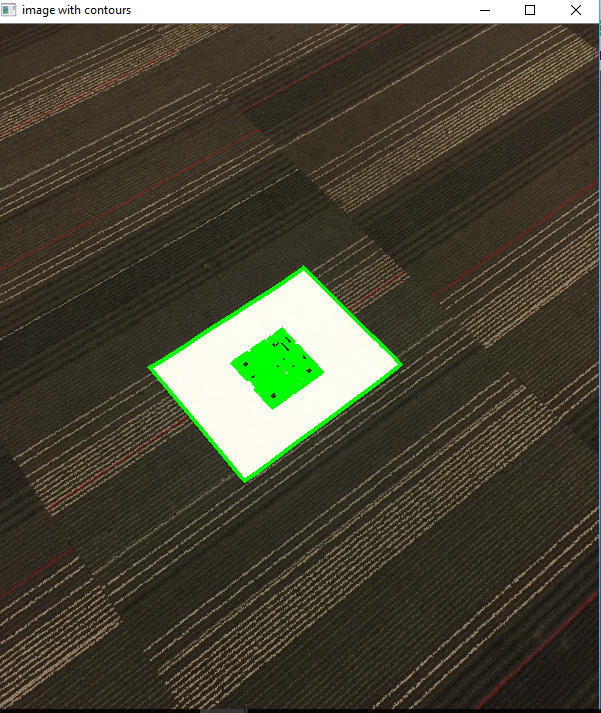
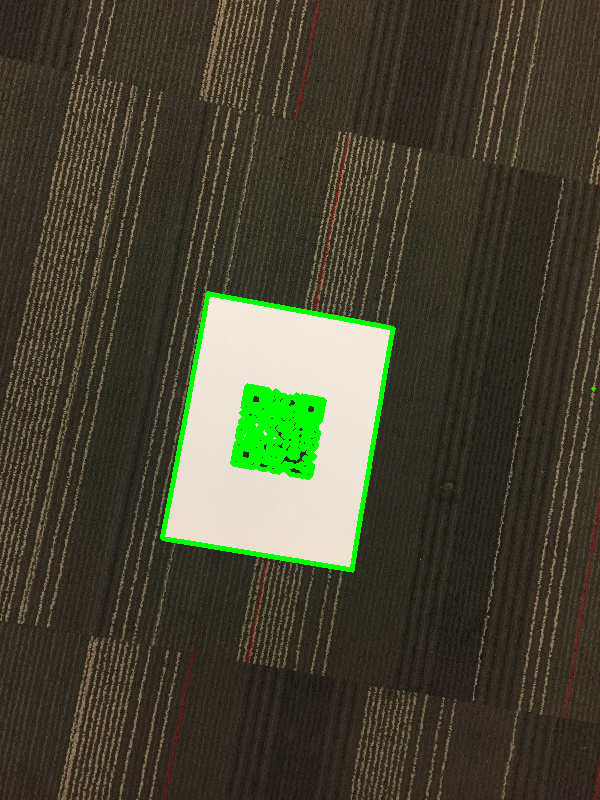
Code to compute the rotation angle of the pattern in the rotated image

diff --git a/visualize.py b/visualize.py
@@ -1,7 +1,8 @@
 import cv2
+import numpy as np
 
 # STEP-1: Read any of the input images using cv2
-img = cv2.imread('images/IMG_6723.jpg')
+img = cv2.imread('images/IMG_6726.jpg')
 
 # Step-2: We scale the image to 600*800 size. We finalize on the specifications by trial methods.
 img = cv2.resize(img, (600, 800))
@@ -25,4 +26,64 @@ contourimage, contours, hierarchy = cv2.findContours(thresholdedimage, cv2.RETR_
 # Verify if we get the contour image as expected
 cv2.drawContours(img, contours, -1, (0, 255, 0), 3)
 cv2.imshow("image with contours", img)
+cv2.imwrite("intermediateoutput/Contoured-image.PNG", img);
 cv2.waitKey()
+
+# ==============================Step-6: Detecting and analysing only the barcode pattern from the entire white paper. ============#
+
+# Let's compute the area for each contour co-ordinates.
+areas = [cv2.contourArea(contour) for contour in contours]
+print (areas)
+# #Index of the contour with max area.
+max_area_index = np.argmax(areas)
+print ("max_area_index", max_area_index)
+
+# #Get the contour array(The one that represents the pattern in the white image)
+patterncontour = contours[max_area_index]
+
+# # #Get the minimal up-right bounding rectangle for our contour pattern.
+# x, y, w, h = cv2.boundingRect(patterncontour)
+
+
+# ================================ Step:7 - Analyse the rotation of the pattern.============#
+d = {}
+for contour in contours:
+    # moments() help us in finding centers of all contours
+    M = cv2.moments(contour)
+    if M["m00"] == 0:
+        continue
+    cX = int(M["m10"] / M["m00"])
+    cY = int(M["m01"] / M["m00"])
+    if d.get((cX, cY), 0):
+        d[(cX, cY)] += 1  # If the coordinates already exits, we just increment the value
+    else:
+        d[(cX, cY)] = 1  # else add the list to the array.
+three_hits = []
+two_hits = []
+for key in d:
+    if d[key] == 3:
+        three_hits.append(key)
+    if d[key] == 2:
+        two_hits.append(key)
+# this will be used if the rotation of the barcode is necessary, for now I will use the rotation of the rectangle
+if len(three_hits) == 3:
+    pass
+elif len(three_hits) == 2:
+    pass
+else:
+    pass
+
+# =============================Step-8:  Get the rotated angle of the pattern.=============#
+# minAreaRect : gets the  minimum-area bounding the rotated rectangle for a specified contour
+rect = cv2.minAreaRect(patterncontour)
+print (rect)
+# boxPoints: Helps us finding the four vertices of a rotated rect.
+box = cv2.boxPoints(rect)
+
+# int0: Converts the box vertices into integers.
+box = np.int0(box)
+
+cv2.drawContours(img, [box], 0, (0, 0, 255), 2)
+rotatedangle = rect[2]
+
+print("Rotation Angle of the pattern: ", rotatedangle)
